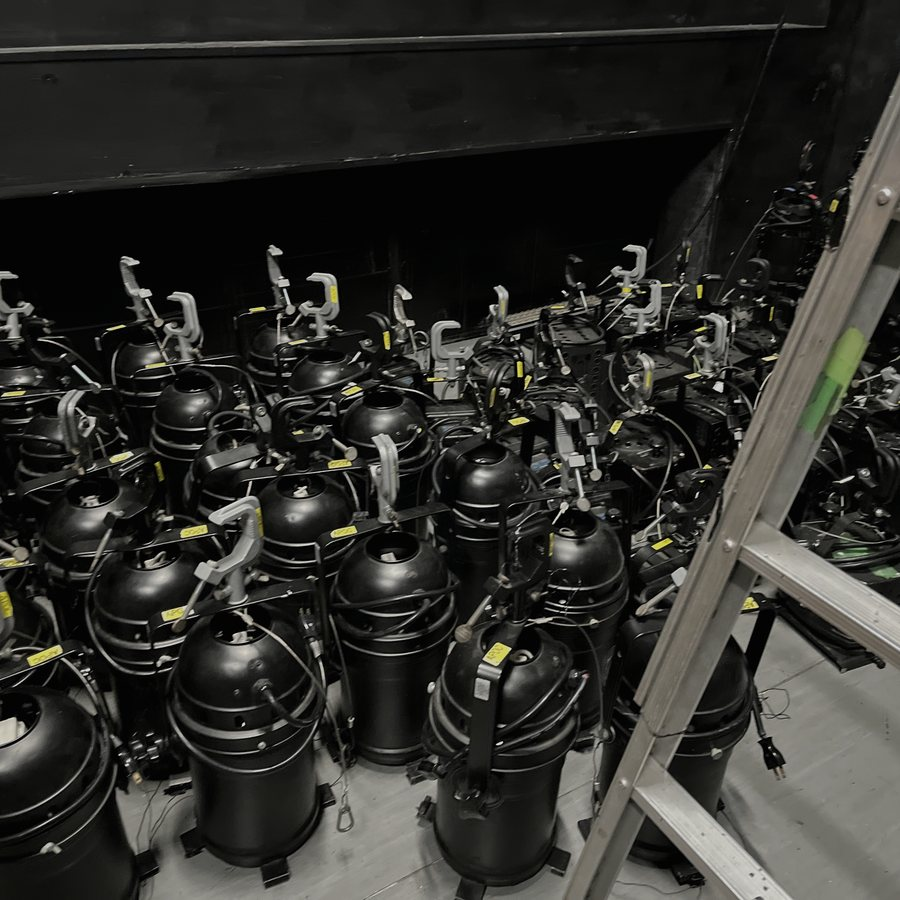
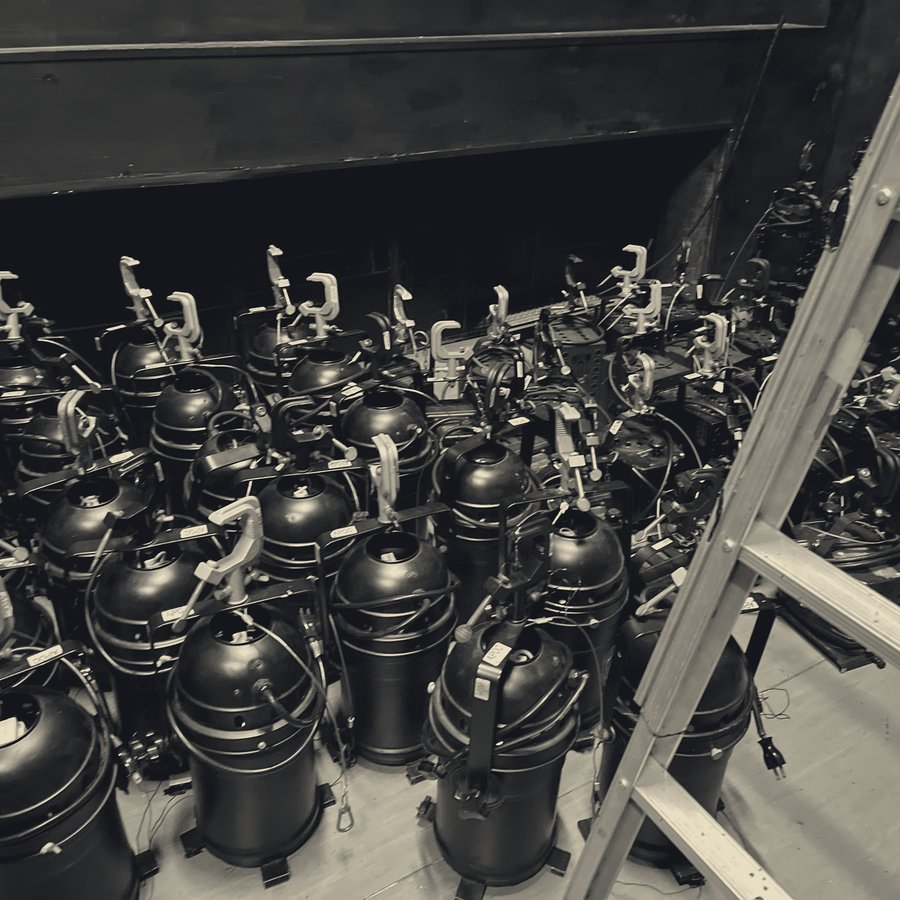
Add files via upload

diff --git a/index.html b/index.html
@@ -119,8 +119,13 @@
       </div>
       <div class="t-item">
         <div class="t-date">2024.03.17</div>
-        <div class="t-title">Musical Theater Showcase</div>
-        <div class="t-venue">大船フラワーホール</div>
+        <div class="t-title">Musical Theater Youth Mashup</div>
+        <div class="t-venue">日比谷花壇 大船フラワーセンター</div>
+      </div>
+      <div class="t-item">
+        <div class="t-date">2024.08.09</div>
+        <div class="t-title">Musical Workshop</div>
+        <div class="t-venue">三軒茶屋</div>
       </div>
       <div class="t-item">
         <div class="t-date">2024.08.24</div>
@@ -131,6 +136,11 @@
         <div class="t-title">Workshop 英語でミュージカル</div>
       </div>
       <div class="t-item">
+        <div class="t-date">2024.10.25</div>
+        <div class="t-title">10 Minute Musicals — 出張公演</div>
+        <div class="t-venue">Westa川越</div>
+      </div>
+      <div class="t-item">
         <div class="t-date">2024.11.23</div>
         <div class="t-title">10 Minutes Musicals（2公演）</div>
         <div class="t-venue">Offza</div>
@@ -139,6 +149,11 @@
         <div class="t-date">2025.05.25</div>
         <div class="t-title">10 Minute Musicals Vol.2（2公演）</div>
         <div class="t-venue">中目黒 TRY</div>
+      </div>
+      <div class="t-item">
+        <div class="t-date">2025.08.17</div>
+        <div class="t-title">Contemporary Musical Theater Showcase</div>
+        <div class="t-venue">Mesm Tokyo</div>
       </div>
       <div class="t-item">
         <div class="t-date">2025.10.20</div>
